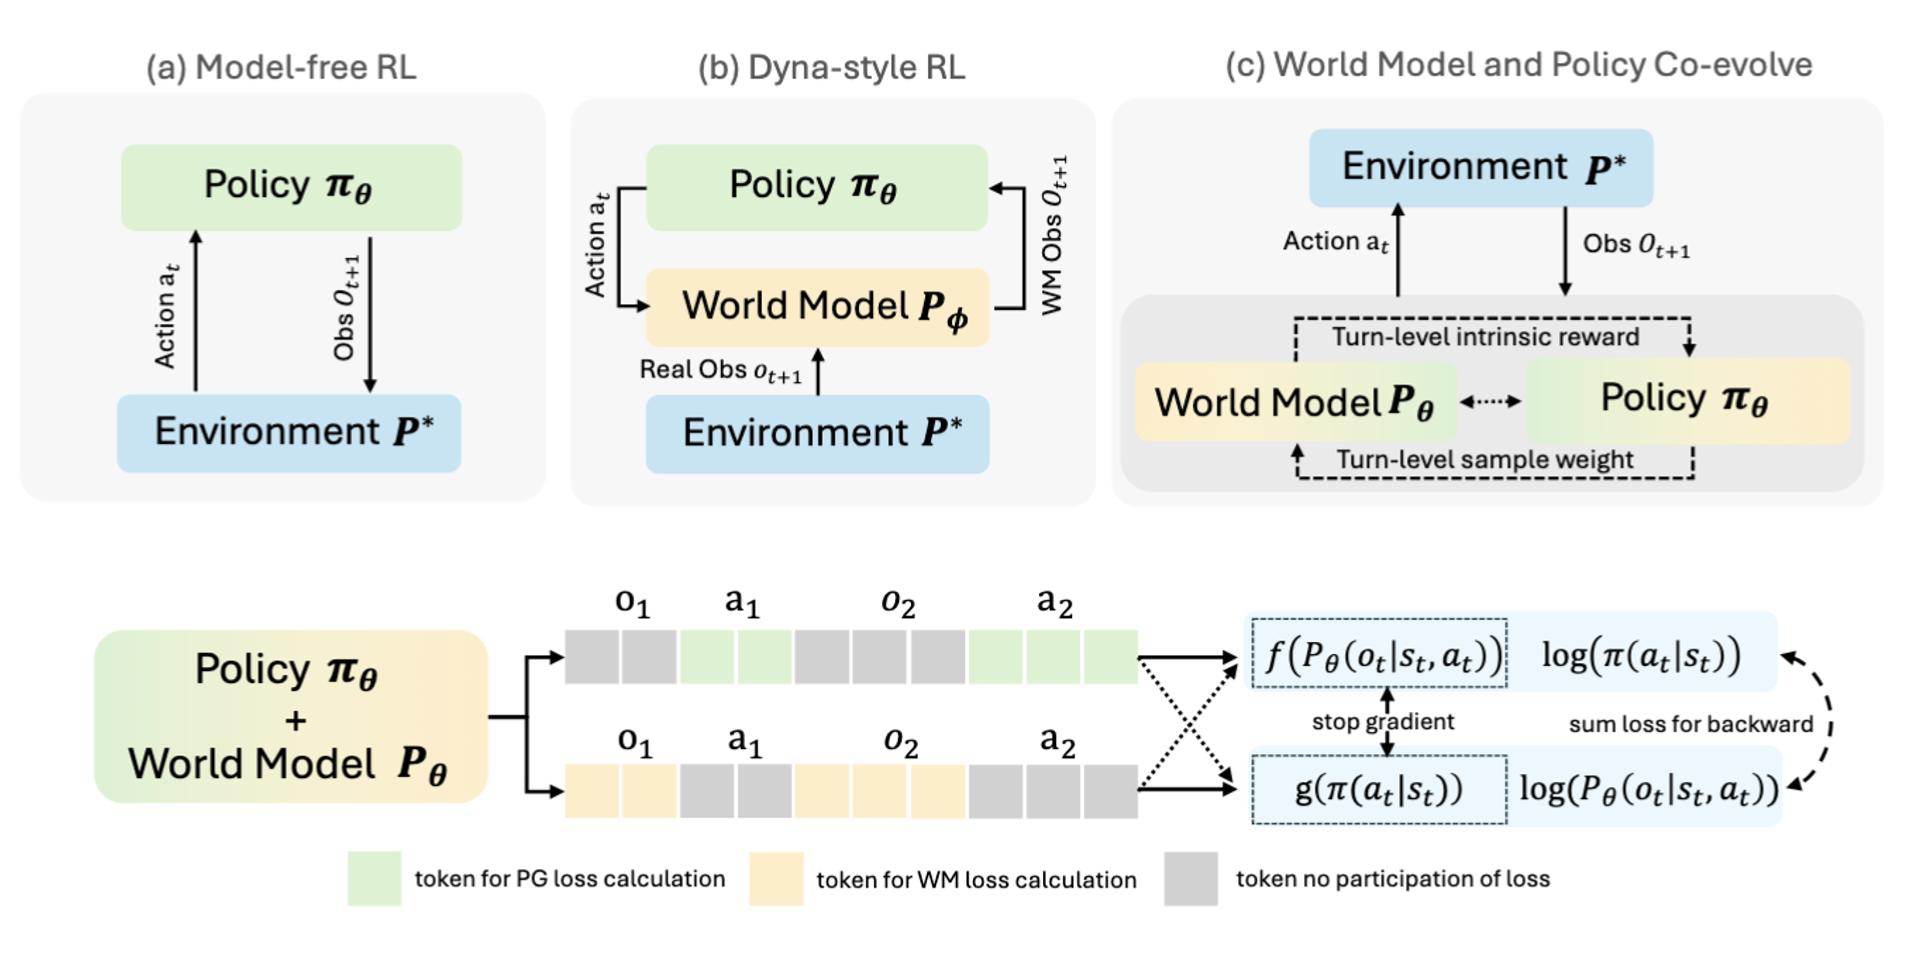
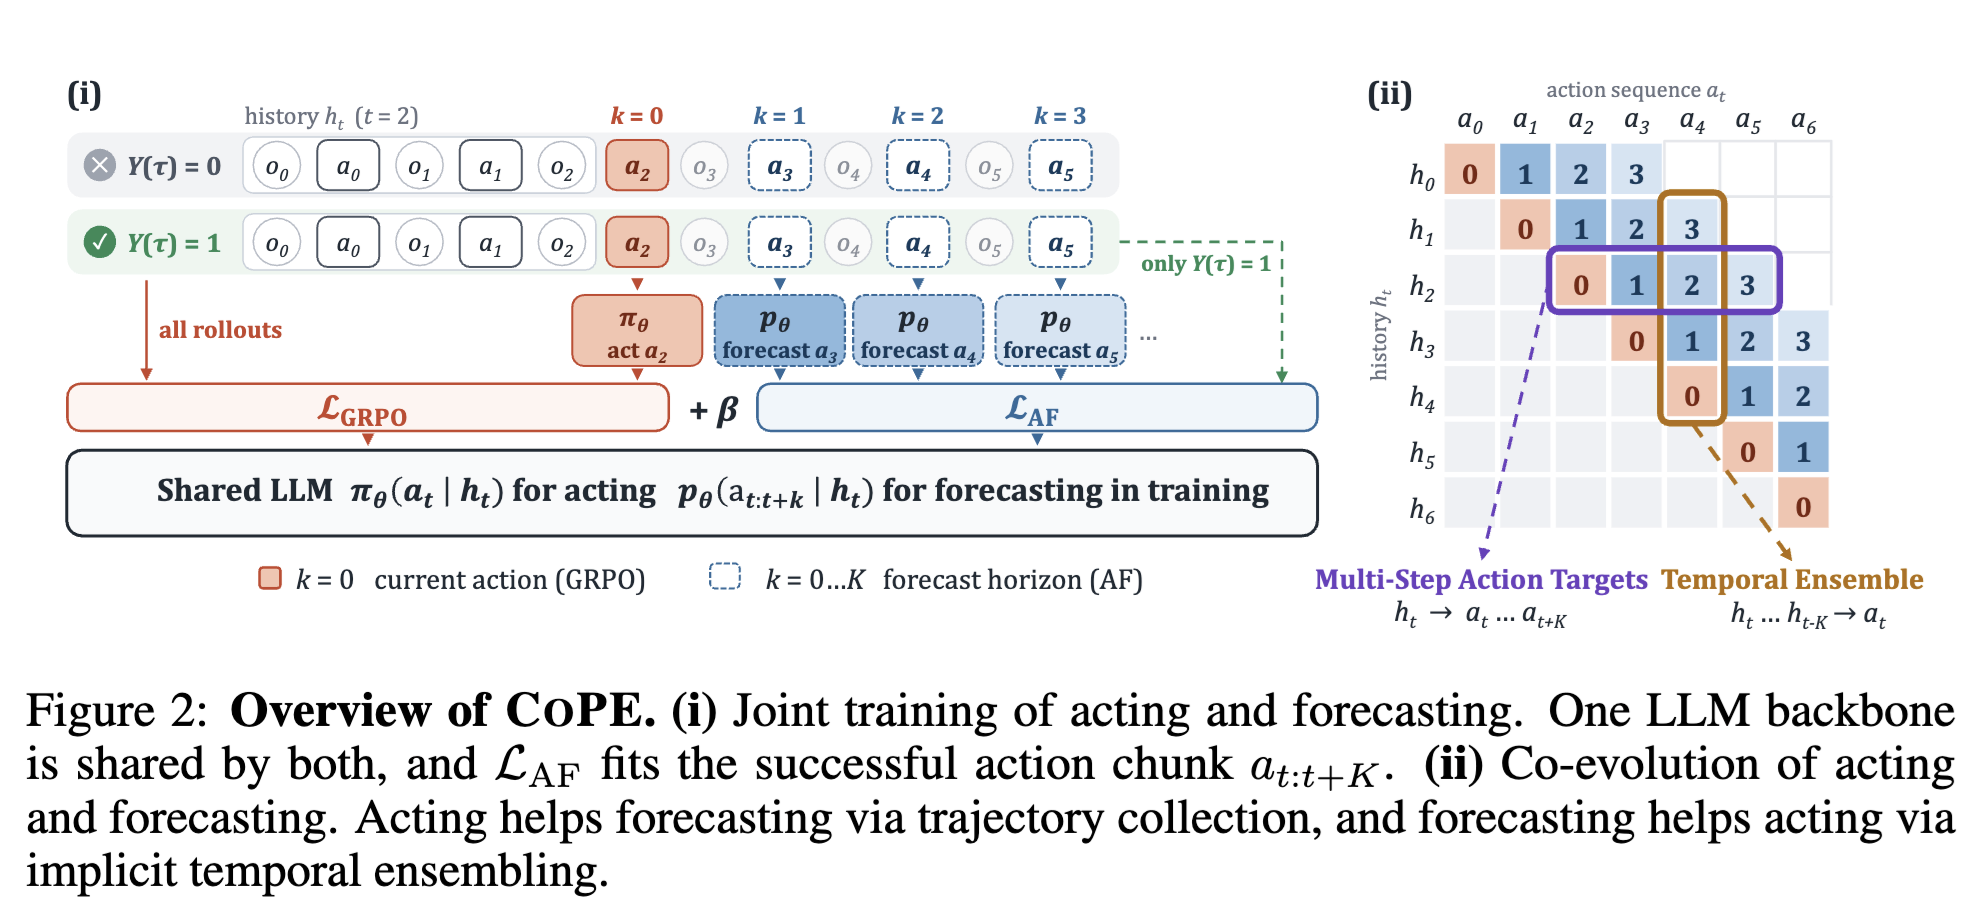
Add CoPE publication and updated overview image

diff --git a/_pages/about.md b/_pages/about.md
@@ -128,6 +128,22 @@ Shengda Fan<sup>*</sup>, **Xuyan Ye<sup>*</sup>**, Yupeng Huo, Zhiyuan Chen, Yij
 
 <div id="panel-supervision" class="publication-panel" data-category="supervision">
 
+<div class='paper-box'><div class='paper-box-image'><div><div class="badge">Preprint</div><img src='images/CoPE.png' alt="CoPE joint training of acting and forecasting" width="100%"></div></div>
+<div class='paper-box-text' markdown="1">
+
+**Co-Evolving Acting and Forecasting for Language Agents**
+
+Haofei Yu<sup>*</sup>, Yixing Chen<sup>*</sup>, Yining Zhao, **Xuyan Ye**, Yuxiang Liu, Zhigang Hua, Yan Xie, Shuang Yang, Jiaxuan You
+
+<sup>*</sup> Equal contribution.
+
+[📓 **arXiv**](https://arxiv.org/abs/2610.20597)
+
+[💻 **Github**](https://github.com/ulab-uiuc/CoPE)
+
+</div>
+</div>
+
 <div class='paper-box' data-sort-priority='1'><div class='paper-box-image'><div><div class="badge">Under Review</div><img src='images/DeltaTTG.png' alt="DeltaTTG progress meter training and credit assignment" width="100%"></div></div>
 <div class='paper-box-text' markdown="1">
 
